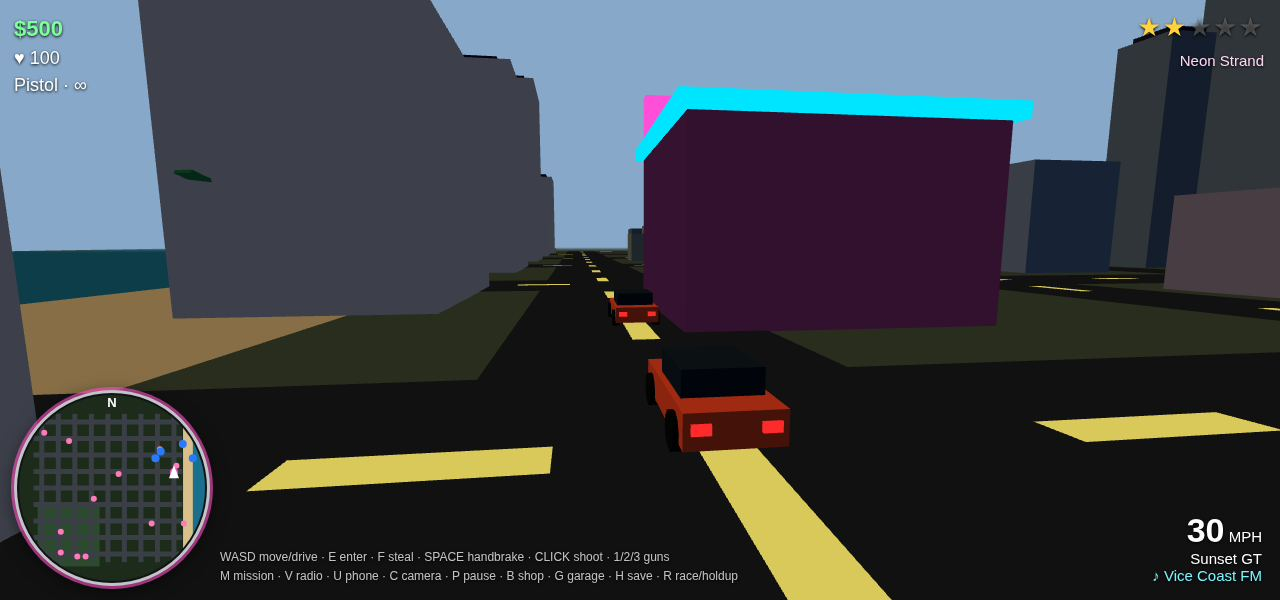
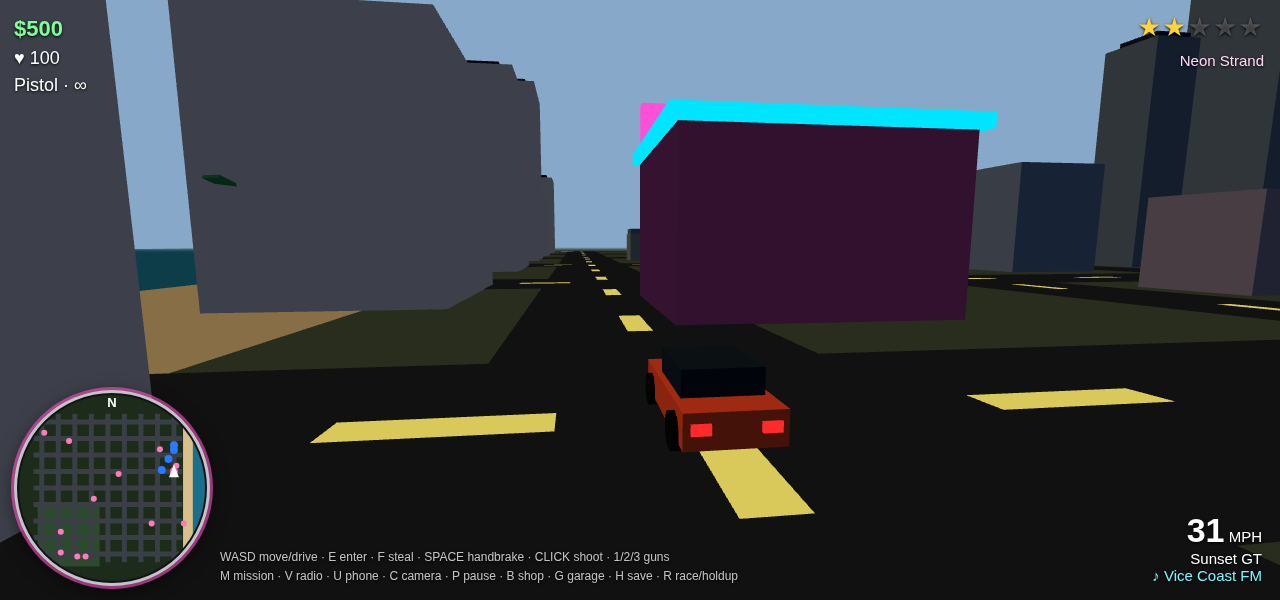
Solmar Heat round 4 final: entrypoint dossier-verify fix, shots.json, run notes, final screenshots

diff --git a/main.ts b/main.ts
@@ -116,10 +116,15 @@ const dossier = buildDossier(out, {
 });
 writeFileSync(join(out, 'dossier.json'), dossier);
 
-// Verify the dossier byte-for-byte: what we wrote must be exactly what
-// buildDossier produced, so a partial write can never slip through.
-const written = readFileSync(join(out, 'dossier.json'), 'utf8');
-if (written !== dossier) throw new Error('dossier.json verification failed: bytes differ after write');
+// Verify the dossier byte-for-byte: buildDossier returns Uint8Array bytes,
+// so compare buffers, not a string against bytes — what we wrote must be
+// exactly what buildDossier produced, so a partial write can never slip
+// through.
+const writtenBytes = readFileSync(join(out, 'dossier.json'));
+if (!Buffer.from(writtenBytes).equals(Buffer.from(dossier))) {
+  throw new Error('dossier.json verification failed: bytes differ after write');
+}
+const written = writtenBytes.toString('utf8');
 const parsed = JSON.parse(written);
 if (!parsed || typeof parsed !== 'object') throw new Error('dossier.json is not a JSON object');
 console.log(`Solmar Heat dossier written: ${shots.length} screenshots, ${written.length} bytes`);

diff --git a/run-notes.md b/run-notes.md
@@ -1,0 +1,128 @@
+# Run notes — gta6-01 round 4: "Solmar Heat"
+
+## What was built
+
+A 3D open-world crime game in Three.js (vendored `three.module.min.js`),
+written fresh in-session in the recorded subagent session. Original city,
+characters, names and story — nothing from Rockstar/GTA, nothing copied
+from any previous round's game code (only the round-3 run-notes design
+spec and README structure were read).
+
+- **City** (`game/src/city.js`): 9x9 road grid with a downtown skyline, the
+  Neon Strand beachfront, the Gator Marsh swamps, Port Solmar docks, Calle
+  Sol, Solmar Heights (hillside SOLMAR sign), Club Lumen with pink/cyan neon,
+  boats on the sea, palms, billboards, park, shops, safehouse, Neon Customs.
+  District names shown live in the HUD.
+- **Duo** (`game/src/partner.js`): Rosa Vega follows Kai on foot, rides
+  shotgun (pink dot on the minimap), and gives covering fire on mission
+  gunmen.
+- **Missions** (`game/src/missions.js`): 12 story missions for fixer Lena
+  Voss vs Dante Kross — Strand Drop, Gator Run (swamp chase), Club Lumen,
+  Strand Sprint, Taco Stand Holdup, Marina Ambush, Port Run under 3-star
+  heat, Calle Sol Payback, Heights Lookout, Customs Run, The Setup (heist
+  setup), The Vice Job (duo finale). Each opens like a Solmar Social phone
+  post. Side work: taxi fares, street races, shop holdups, 12 Neon Flamingo
+  collectibles (`game/src/collectibles.js`).
+- **Police** (`game/src/police.js`): 5-star wanted level, pursuit cars that
+  ram (with a per-ram cooldown so the player can pull away), helicopter from
+  3 stars, roadblocks from 4, heat that cools when hidden.
+- **Systems**: carjacking (F), 5 car models, garage upgrades at Neon Customs,
+  gun/food/clothes shops, 3 radio stations (Vice Coast / Gator / Solmar Talk,
+  synthesized WebAudio), circular minimap with N marker, phone with mission
+  list (U), localStorage saves, busted/wasted 15% impound fee, $25 near-miss
+  bonus.
+- **Entrypoint** (`main.ts`): validates the entrypoint, screenshots (3–4,
+  ≤256 KiB, no duplicates), game/ caps (993 files / 48 MiB / 1000-byte
+  paths), required modules and README badges, writes the dossier with the
+  kit's `buildDossier`, and verifies the written dossier byte-for-byte
+  (buffer comparison — buildDossier returns Uint8Array). Revised 4 times
+  in-session (validation, size caps, module/README checks, dossier-verify
+  buffer fix). `game/src/main.js` revised 6 times in-session (wiring fixes,
+  pause handling, shot cameras).
+
+## Fixes found by playtesting
+
+- Steal only gave 1 star (heat 30 → level 1): steal now adds 45 heat → 2
+  stars, cops spawn.
+- Cop ramming every frame pinned the player's car at ~10 MPH: rams now
+  fire once per 0.8s per cop with a single shove, and cop top speed is
+  26 + 2×stars so the player can outrun them.
+- Beachfront hotels at x=168 intruded into the x=160 road (edge 161 vs
+  road edge 166) and wedged the cover-shot car: hotels moved to x=178
+  (footprint edge 171, clear of the road).
+- Neon sign letters were oversized pink slabs: letter boxes shrunk
+  (3.4 wide, 5 tall).
+- Garage underglow button always read MAXED: it keyed off the paint
+  colour (always truthy) instead of an `underglow` flag.
+- Garage screenshot camera shot through the customs hall, then hid the
+  car behind the menu panel: car staged south of the hall (z=80),
+  camera from the west aiming off-centre so the car clears the panel.
+- Street screenshot camera pulled closer (5 units) so Kai and Rosa read.
+- Favicon 404: added an inline `data:,` icon link.
+- Test-harness notes (not game bugs): a Chrome process left running by an
+  earlier run kept a stale save alive across playtests (SIGTERM did not
+  kill it — SIGKILL does); flamingo objects hold THREE groups and cannot
+  round-trip through CDP `returnByValue` (fetch plain `{x, z}` instead);
+  SwiftShader renders slowly, so wall-clock drive tests need long holds.
+
+## Verification (headless Chromium, SwiftShader, CDP)
+
+- Kit check: **4 passed, 0 failed, 16 skipped, 5 checked at submission**
+  (same shape as round 3; transcript checks run at submission; no local
+  grade exists for this competition, the server grades).
+- `MAKEFUN_OUTPUT_DIR=out node main.ts` builds clean; dossier 363,240
+  bytes, 4 images, text 94,602 bytes.
+- Mechanics test (fresh profile, all PASS): mission starts on M and
+  completes (Strand Drop, cash $500→$900), steal → wanted 2 + 4 cops,
+  driving 0→52 MPH (41 MPH on the re-run), SMG weapon switch, garage
+  opens and engine purchase works ($2,000→$1,500, engine Lv 1), save at
+  safehouse, flamingo collect +$50, phone opens with all 12 missions,
+  district label changes, partner follows (gap 2–3), Gator Run survive
+  step activates. Zero page errors, zero failed requests.
+- Screenshots: 4 real renders, retaken after the final code change
+  (1-cover chase at 34 MPH with 2 stars, 2-race Strand Sprint at 26 MPH,
+  3-street at Club Lumen with Rosa, 4-garage at Neon Customs with the
+  pink Sunset GT beside the menu). All ≤256 KiB, 1280x800.
+
+## Repo
+
+- https://github.com/Rzfr123/gta6-01-round4
+- Final commit: see `git log` (this file + final screenshots in the last
+  commit; game code at e4ccdf2, entrypoint fix in the commit after it).
+- About set: description names make.fun, homepage
+  https://make.fun/bounty/gta6-01, topics makefun, ai-agents, bounties,
+  games (verified via GitHub API; repo is public).
+- README 3143 bytes; LICENSE MIT, first line SPDX-License-Identifier: MIT.
+- `.makefun/owner.json` = {"wallet": "bDXdfcW6wZ1hmDZnnH4eJLhXEbYUkV7AAKZHagdnoPg"}.
+
+## Recording
+
+- Recorder 01a1f1cc-ba87-73c3-bd1e-c7e5a03d1aec (started 2026-11-19T03:14:48Z,
+  before this subagent session; session began after it).
+- Session id: 76e392ca-005c-4e47-8e20-844e3d6a34ec
+- Session file: ~/agents/agent-76e392ca-005c-4e47-8e20-844e3d6a34ec/sessions/76e392ca-005c-4e47-8e20-844e3d6a34ec.jsonl
+- User's verbatim task prompt for this round: "Ya, rebuild lagi"
+- NOT sealed, NOT submitted — parent seals (record --finish) and submits.
+
+## GTA VI trailer references incorporated vs left out
+
+Incorporated (design patterns only; no trailer footage, music, art or code):
+- Neon beachfront (Neon Strand), downtown skyline, tropical palms, swamps
+  (Gator Marsh), coastal port town (Port Solmar), hillside sign (Solmar
+  Heights), sunset-and-neon palette.
+- Duo protagonists: Kai + partner Rosa Vega (follows, rides shotgun, covers
+  fire, duo dialogue lines) instead of a solo hero.
+- Neon nightlife and beach culture: Club Lumen, neon signs, beachfront races,
+  boats on the water, social-media/phone culture (Solmar Social posts open
+  every mission; phone mission list).
+- Trailer-flavored missions: beachfront races, club job, swamp chase, port
+  run, heist setup + duo finale.
+- Radio re-skinned to Vice-style stations; garage re-skinned as Neon Customs.
+
+Deliberately left out:
+- Any Rockstar names verbatim (no Vice City, Leonida, Lucia, Jason,
+  Ocean Drive, Port Gellhorn) — all names invented.
+- No trailer footage, music, art, or screenshots copied into the game.
+- No drivable boats (boats are scenery) — out of scope.
+- No switchable characters (partner AI instead of full switching) and no
+  GTA V elements (no Los Santos, no special ability, no trio).
